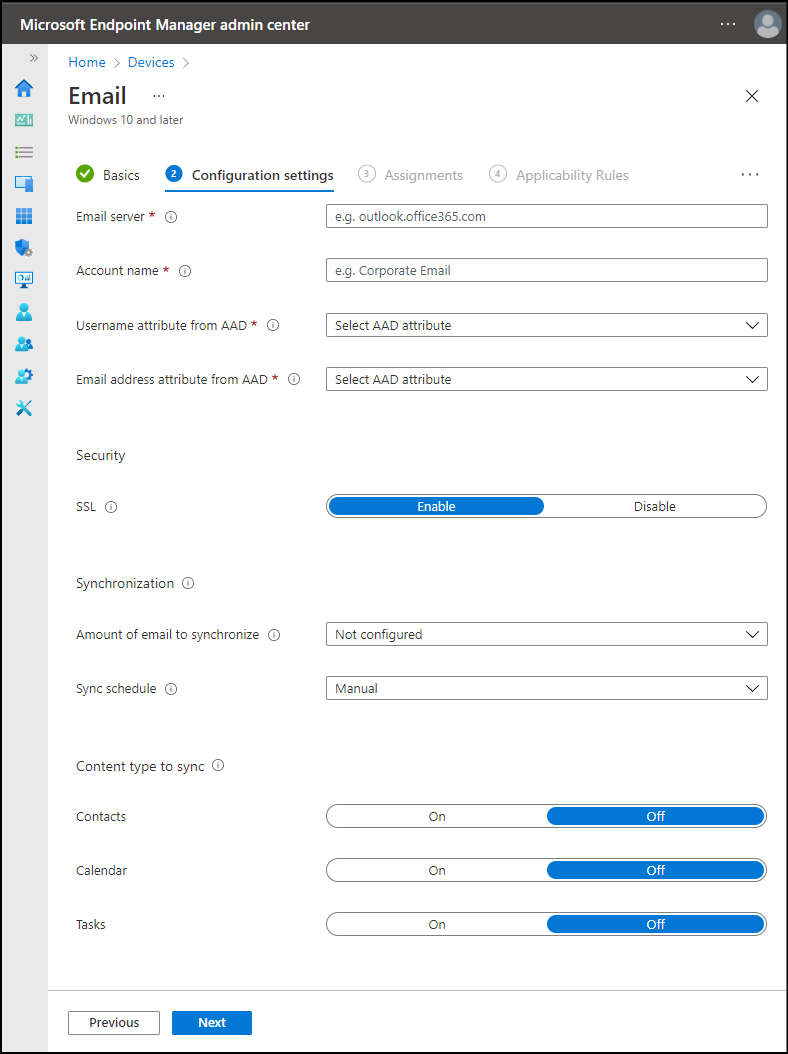
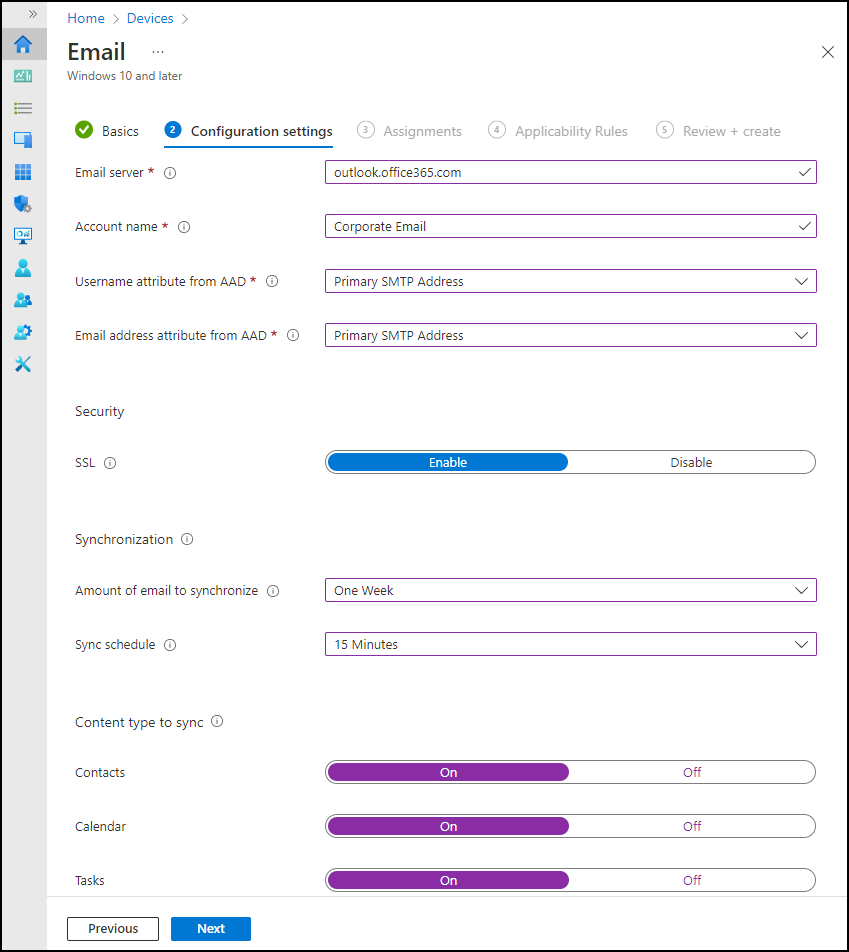
erikre-learnm365-13124507a 1.9

diff --git a/learn-m365-pr/m365/create-device-configuration-profiles/includes/8-create-vpn-profile.md b/learn-m365-pr/m365/create-device-configuration-profiles/includes/8-create-vpn-profile.md
@@ -1,56 +1,62 @@
-Virtual private networks (VPNs) give users secure remote access to your organization network. Devices use a VPN connection profile to start a connection with the VPN server. VPN profiles in Microsoft Intune assign VPN settings to users and devices in your organization. Use these settings so users can easily and securely connect to your organizational network.
+Virtual private networks (VPNs) give users secure remote access to your organization's network. This type of security helps protect your organization's privacy by ensuring only authorized users are allowed access. Devices use a VPN connection profile (device configuration profile) to start a connection with the VPN server. VPN connection profiles in Microsoft Intune assign VPN settings to users and devices in your organization. You must assign these settings so users can easily and securely connect to your organizational network.
 
-## Create a VPN device configuration profile
+You can use device configuration profiles to configure VPN settings for the following devices:
+- **Android device administrator**
+- **Android Enterprise** > **Fully Managed, Dedicated, and Corporate-Owned Work Profile**
+- **Android Enterprise** > **Personally-owned work profile**
+- **iOS/iPadOS**
+- **macOS**
+- **Windows 10 and later**
+- **Windows 8.1 and later**
+
+Use the following steps to create a new Android Enterprise VPN configuration profile using Microsoft Tunnel.
+
+> [!NOTE]
+> Before completing the below steps, you must first follow the [prerequisites for Microsoft Tunnel in Intune](/mem/intune/protect/microsoft-tunnel-prerequisites).
+
+## Step 1: Create a VPN device configuration profile
 
 1. Sign in to the [Microsoft Endpoint Manager admin center](https://go.microsoft.com/fwlink/?linkid=2109431).
 2. Select **Devices** > **Configuration profiles** > **Create profile**.
-3. Enter the following properties:
+   The **Create a profile** pane is displayed.
+3. Select **Android Enterprise** from the dropdown box under **Platform**.
+4. Under the **Personally-Owned Work Profile** section, select **VPN**.
+5. Click **Create**.
 
-    - **Platform**: Choose the platform of your devices. Your options:
-      - **Android device administrator**
-      - **Android Enterprise** > **Fully Managed, Dedicated, and Corporate-Owned Work Profile**
-      - **Android Enterprise** > **Personally-owned work profile**
-      - **iOS/iPadOS**
-      - **macOS**
-      - **Windows 10 and later**
-      - **Windows 8.1 and later**
-    - **Profile**: Select **VPN**. Or, select **Templates** > **VPN**.
+## Step 2: Add basic profile values
+1. Next to **Name**, add "VPN settings - Android Enterprise - Personally-Owned Work Profile".
+2. *[Optional]* Add a **Description** for your new profile.
+3. Click **Next**.
 
-4. Select **Create**.
-5. In **Basics**, enter the following properties:
+## Step 3: Add configuration settings
+1. Next to **Connection type**, select **Microsoft Tunnel**.
+   For more information, see [Microsoft Tunnel overview](/mem/intune/protect/microsoft-tunnel-overview).
+2. Under **Base VPN**, add a **Connection name**. For instance, include your organization's name as part of the connection name, such as "Contoso VPN".
+   The connection name is a descriptive name for the VPN connection and will be displayed to end-users on their device.
+3. Below **Microsoft Tunnel site**, click **Select a site** to display the **Microsoft Tunnel site** pane.
+   The VPN client will connect to the public IP address or fully qualified domain name (FQDN) of the site.
+4. Select an available site. 
+   If you don't have an available site, create one by selecting **Tenant administration** > **Microsoft Tunnel Gateway**. For more information, see [Prerequisites for the Microsoft Tunnel in Intune](/mem/intune/protect/microsoft-tunnel-prerequisites).
+5. Click **Next**.
 
-    - **Name**: Enter a descriptive name for the profile. Name your profiles so you can easily identify them later. For example, a good profile name is **VPN profile for entire company**.
-    - **Description**: Enter a description for the profile. This setting is optional, but recommended.
+## Step 4: Assign profile to group
+For this device configuration profile, you can skip assigning this profile to any groups, users, or devices until you have created users and enrolled devices.
+1. Click **Next**.
 
-6. Select **Next**.
-7. In **Configuration settings**, depending on the platform you chose, the settings you can configure are different. 
+## Step 5: Set applicability Rules
+For this device configuration profile, you can skip specifying how to apply this profile within an assigned group.
+1. Click **Next**.
 
-8. Select **Next**.
-9. In **Scope tags** (optional), assign a tag to filter the profile to specific IT groups, such as `US-NC IT Team` or `JohnGlenn_ITDepartment`. For more information about scope tags, see [Use RBAC and scope tags for distributed IT](/mem/intune/configuration/scope-tags).
+## Step 6: Review + create
+1. Review the values and settings for this configuration profile.
+2. Click **Create**.
 
-    Select **Next**.
+You have now created a new device configuration profile named "VPN settings - Android Enterprise - Personally-Owned Work Profile". You can see the new configuration profile in the list by selecting **Devices** > **Configuration profiles**. For more information about Android Enterprise device configuration settings in Intune, see [Android Enterprise device settings to configure VPN in Intune](/mem/intune/configuration/vpn-settings-android-enterprise).
 
-10. In **Assignments**, select the user or groups that will receive your profile. For more information on assigning profiles, see [Assign user and device profiles](/mem/intune/configuration/device-profile-assign).
-
-    Select **Next**.
-
-11. In **Review + create**, review your settings. When you select **Create**, your changes are saved, and the profile is assigned. The policy is also shown in the profiles list.
-
-## Secure your VPN profiles
-
-VPN profiles can use many different connection types and protocols from different manufacturers. These connections are typically secured through the following methods.
-
-### Certificates
+## VPN certificates
 
 When you create the VPN profile, you choose a SCEP or PKCS certificate profile that you previously created in Intune. This profile is known as the identity certificate. It's used to authenticate against a trusted certificate profile (or *root certificate*) that you create to allow the user's device to connect. The trusted certificate is assigned to the computer that authenticates the VPN connection, typically, the VPN server.
 
 If you use certificate-based authentication for your VPN profile, then deploy the VPN profile, certificate profile, and trusted root profile to the same groups. This assignment makes sure each device recognizes the legitimacy of your certificate authority.
 
 For more information about how to create and use certificate profiles in Intune, see [How to configure certificates with Microsoft Intune](/mem/intune/protect/certificates-configure).
-
-> [!NOTE]
-> Certificates added using the **PKCS imported certificate** profile aren't supported for VPN authentication. Certificates added using the **PKCS certificates** profile are supported for VPN authentication.
-
-### User name and password
-
-The user authenticates to the VPN server by providing a user name and password, or [derived credentials](/mem/intune/protect/derived-credentials).

diff --git a/learn-m365-pr/m365/create-device-configuration-profiles/includes/7-add-email-settings.md b/learn-m365-pr/m365/create-device-configuration-profiles/includes/7-add-email-settings.md
@@ -19,55 +19,40 @@ Use the following steps to create a new Windows 11 email configuration profile.
 5. Select **Email** within the **Template name** list.
 6. Click **Create**.
 
-### Add basic profile values
+## Step 2: Add basic profile values
 1. Next to **Name**, add "Windows 11 email settings".
-1. *[Optional]* Add a **Description** for your new profile.
-1. Click **Next**.
+2. *[Optional]* Add a **Description** for your new profile.
+3. Click **Next**.
 
-## Step 2: Add configuration settings
+## Step 3: Add configuration settings
 1. Add the following email account settings:
-   - **Email server**: Enter the host name of your Exchange server. For example, enter `outlook.office365.com`.
+   - **Email server**: Enter the Exchange location (URL) of your email Exchange server. For example, enter `outlook.office365.com`.
    - **Account name**: Enter the display name for the email account. This name is shown to users on their devices.
-   - **Username attribute from AAD**: This name is the attribute Intune gets from Azure Active Directory (AAD). Intune dynamically generates the username that's used by this profile. Your options:
-   - **User Principal Name**: Gets the name, such as `user1` or `user1@contoso.com`.
-   - **Primary SMTP address**: Gets the name in email address format, such as `user1@contoso.com`.
-   - **sAM Account Name**: Requires the domain, such as `domain\user1`. Also enter:  
-      - **User domain name source**: Select **AAD** (Azure Active Directory) or **Custom**.
-
-         When getting the attributes from **AAD**, also enter:
-         - **User domain name attribute from AAD**: Choose to get the **Full domain name** or the **NetBIOS name** attribute of the user.
-
-         When using **Custom** attributes, also enter:
-         - **Custom domain name to use**: Enter a value that Intune uses for the domain name, such as `contoso.com` or `contoso`.
-
-   - **Email address attribute from AAD**: Intune gets this attribute from Azure Active Directory (AAD). Choose how the email address for the user is generated. Make sure your users have email addresses that match the attribute you select. Your options:
-   - **User principal name**: Uses the full principal name as the email address, such as `user1@contoso.com` or `user1`.
-   - **Primary SMTP address**: Uses the primary SMTP address to sign in to Exchange, such as `user1@contoso.com`.
-
+2. For **Username attribute from AAD**, select **Primary SMTP address**. 
+   The **Username attribute from AAD** is an attribute Intune gets from Azure Active Directory (AAD). Intune dynamically generates the username that's used by this profile. The **Primary SMTP address** is the name in email address format, such as `user1@contoso.com`.
+3. For **Email address attribute from AAD**, select **Primary SMTP address**. Intune gets the email address attribute from Azure Active Directory (AAD). Uses the primary SMTP address to sign in to Exchange, such as `user1@contoso.com`. Make sure your users have email addresses that match the attribute you select. Your options:
 
     :::image type="content" source="../media/create-device-configuration-profiles-02.png" alt-text="Device configuration profile email settings":::
 
-2. Select **Enable** next to *SSL** to use Secure Sockets Layer (SSL) communication when sending emails, receiving emails, and communicating with the Exchange server. **Disable** doesn't require SSL.
-3. Select the following email synchronizastion settings:
-   - **Amount of email to synchronize**: Select the number of days of email that you want to synchronize. When set to **Not configured** (default), Intune doesn't change or update this setting. Select **Unlimited** to synchronize all available email.
-   - **Sync schedule**: Select the schedule for devices to synchronize data from the Exchange server. You can also select **As Messages arrive**, which synchronizes data as soon as it arrives. Or, select **Manual** so the device user starts the synchronization.
+4. Select **Enable** next to **SSL** to use Secure Sockets Layer (SSL) communication to securely send emails, receive emails, and communicate with the Exchange server.
+5. In the synchronization section, select **One Week** next to **Amount of email to synchronize**. 
+   This email synchronization setting controls how much email to store on the device and how often to connect to the server.
+6. Select **15 Minutes** next to  **Sync schedule**. 
+   This setting allows you to select the schedule for devices to synchronize data from the Exchange server. You can also select **As Messages arrive**, which synchronizes data as soon as it arrives. Or, select **Manual** so the device user starts the synchronization.
+7. In the **Content type to sync** section, select **On** next to **Contacts**, **Calendar**, and **Tasks**. 
+   In addition to email, you can use these settings to configure other items you want to synchronize like contacts, calendar, and tasks. Email is still synchronized, regardless of these settings.
+8. Click **Next**.
 
-   When set to **Not configured** (default), Intune doesn't change or update this setting.
-
-
-4. Select the content types that you want to synchronize to devices. Your options:
-  - **Contacts**: **On** syncs the contacts. **Off** doesn't automatically sync the contacts. Users manually sync.
-  - **Calendar**: **On** syncs the calendar. **Off** doesn't automatically sync the contacts. Users manually sync.
-  - **Tasks**: **On** syncs the tasks. **Off** doesn't automatically sync the tasks. Users manually sync.
-
-5. Click **Next**.
-
-## Step 3: Assignments
+## Step 4: Assign profile to group
 For this device configuration profile, you can skip assigning this profile to any groups, users, or devices until you have created users and enrolled devices.
+1. Click **Next**.
 
-## Step 3: Applicability Rules
-For this device configuration profile, you can skip assigning this profile to any groups, users, or devices until you have created users and enrolled devices.
+## Step 5: Set applicability Rules
+For this device configuration profile, you can skip specifying how to apply this profile within an assigned group.
+1. Click **Next**.
 
-## Step 4: Review + create
+## Step 6: Review + create
 1. Review the values and settings for this configuration profile.
 2. Click **Create**.
+
+You have now created a new device configuration profile named "Windows 11 email settings". You can see the new configuration profile in the list by selecting **Devices** > **Configuration profiles**. For more information about email configuration settings in Intune, see [Email profile settings for devices running Windows 10/11 in Microsoft Intune](/mem/intune/configuration/email-settings-windows-10).

diff --git a/learn-m365-pr/m365/create-device-configuration-profiles/includes/10-assign-configuration-profile.md b/learn-m365-pr/m365/create-device-configuration-profiles/includes/10-assign-configuration-profile.md
@@ -1,4 +1,7 @@
-You create a profile, and it includes all the settings you entered. The next step is to deploy or "assign" the profile to your user or device groups. When it's assigned, the users and devices receive your profile, and the settings you entered are applied.
+After you have created a device configuration profile and enrolled your organization's devices into Intune, you can assign the profile to your user or device groups. When the device configuration profile is assigned, the users and devices receive the profile, and the settings you entered are applied.
+
+> [!NOTE]
+> This modules explains how to create device configuration profiles before enrolling devices into Microsoft Intune.
 
 ## Assign a device profile
 
@@ -11,57 +14,4 @@ You create a profile, and it includes all the settings you entered. The next ste
 5. Select **Review + Save**. This step doesn't assign your profile.
 6. Select **Save**. When you save, your profile is assigned. Your groups will receive your profile settings when the devices check in with the Intune service.
 
-## Use scope tags or applicability rules
-
-When you create or update a profile, you can also add scope tags and applicability rules to the profile.
-
-**Scope tags** are a great way to filter profiles to specific groups, such as `US-NC IT Team` or `JohnGlenn_ITDepartment`. [Use RBAC and scope tags for distributed IT](/mem/intune/fundamentals/scope-tags) has more information.
-
-On Windows 10/11 devices, you can add **applicability rules** so the profile only applies to a specific OS version or a specific Windows edition. [Applicability rules](/mem/intune/configuration/device-profile-create#applicability-rules) has more information.
-
-## User groups vs. device groups
-
-Many users ask when to use user groups and when to use device groups. The answer depends on your goal. Here's some guidance to get you started.
-
-### Device groups
-
-If you want to apply settings on a device, regardless of who's signed in, then assign your profiles to a devices group. Settings applied to device groups always go with the device, not the user.
-
-For example:
-
-- Device groups are useful for managing devices that don't have a dedicated user. For example, you have devices that print tickets, scan inventory, are shared by shift workers, are assigned to a specific warehouse, and so on. Put these devices in a devices group, and assign your profiles to this devices group.
-
-- You create a [Device Firmware Configuration Interface (DFCI) Intune profile/mem/intune/configuration/device-firmware-configuration-interface-windows) that updates settings in the BIOS. For example, you configure this profile to disable the device camera, or lock down the boot options to prevent users from booting up another OS. This profile is a good scenario to assign to a devices group.
-
-- On some specific Windows devices, you always want to control some Microsoft Edge settings, regardless of who's using the device. For example, you want to block all downloads, limit all cookies to the current browsing session, and delete the browsing history. For this scenario, put these specific Windows devices in a devices group. Then, create an [Administrative Template in Intune](/mem/intune/configuration/administrative-templates-windows), add these device settings, and then assign this profile to the devices group.
-
-To summarize, use device groups when you don't care who's signed in on the device, or if anyone signs in. You want your settings to always be on the device.
-
-### User groups
-
-Profile settings applied to user groups always go with the user, and go with the user when signed in to their many devices. It's normal for users to have many devices, such as a Surface Pro for work, and a personal iOS/iPadOS device. And, it's normal for a person to access email and other organization resources from these devices.
-
-If a user has multiple devices on the same platform, then you can use [filters](/mem/intune/fundamentals/filters) on the group assignment. For example, a user has a personal iOS/iPadOS device, and an organization-owned iOS/iPadOS. When you assign a policy for that user, you can use [filters](/mem/intune/fundamentals/filters) to target only the organization-owned device.
-
-Follow this general rule: If a feature belongs to a user, such as email or user certificates, then assign to user groups.
-
-For example:
-
-- You want to put a Help Desk icon for all users on all their devices. In this scenario, put these users in a users group, and assign your Help Desk icon profile to this users group.
-- A user receives a new organization-owned device. The user signs in to the device with their domain account. The device is automatically registered in Azure AD, and automatically managed by Intune. This profile is a good scenario to assign to a users group.
-- Whenever a user signs in to a device, you want to control features in apps, such as OneDrive or Office. In this scenario, assign your OneDrive or Office profile settings to a users group.
-
-  For example, you want to block untrusted ActiveX controls in your Office apps. You can create an [Administrative Template in Intune](/mem/intune/configuration/administrative-templates-windows), configure this setting, and then assign this profile to a users group.
-
-To summarize, use user groups when you want your settings and rules to always go with the user, whatever device they use. 
-
-## Exclude groups from a profile assignment
-
-Intune device configuration profiles let you include and exclude groups from profile assignment.
-
-As a best practice:
-
-- Create and assign profiles specifically for your user groups. Use [filters](/mem/intune/fundamentals/filters) to include or exclude devices of those users.
-- Create and assign different profiles specifically for your device groups.
-
-For more information on groups, see [Add groups to organize users and devices](/mem/intune/fundamentals/groups-add).
+For more information, see [Assign user and device profiles in Microsoft Intune](/mem/intune/configuration/device-profile-assign).

diff --git a/learn-m365-pr/m365/create-device-configuration-profiles/includes/11-view-configuration-profiles.md b/learn-m365-pr/m365/create-device-configuration-profiles/includes/11-view-configuration-profiles.md
@@ -11,9 +11,9 @@ All of your profiles are shown. You also see the platform, the type of profile, 
 
 ## View device configuration profile details
 
-After you create your device profile, Intune provides graphical charts. These charts display the status of a profile, such as it being successfully assigned to devices, or if the profile shows a conflict.
+After you create your device configuration profile, Intune provides graphical charts. These charts display the status of a profile, such as it being successfully assigned to devices, or if the profile shows a conflict.
 
-1. Select an existing profile. For example, select a macOS profile.
+1. Select an existing profile. For example, select a iOS/iPadOS profile.
 2. Select the **Overview** tab. In this view, the **Profile assignment** includes the following statuses:
 
     - **Completed**: Policy is applied successfully.
@@ -22,21 +22,21 @@ After you create your device profile, Intune provides graphical charts. These ch
     - **Pending**: The device hasn't checked in with Intune to receive the policy yet.
     - **Not applicable**: The device can't receive the policy. For example, the policy updates a setting specific to iOS 11.1, but the device is using iOS 10.
 
-3. The top graphical chart shows the number of devices assigned to the device profile. For example, if the configuration device profile applies to macOS devices, the chart lists the count of the macOS devices.
+3. The top graphical chart shows the number of devices assigned to the device profile. For example, if the configuration device profile applies to iOS/iPadOS devices, the chart lists the count of the iOS/iPadOS devices.
 
     When monitoring a Windows profile, the count in the **Profile assignment** status is per device per user. So, if two users sign in to the same device, then that device is counted twice.
 
-    It can also show the number of devices for other platforms that are assigned the same device profile. For example, it shows the count of the non-macOS devices.
+    It can also show the number of devices for other platforms that are assigned the same device profile. For example, it shows the count of the non-iOS/iPadOS devices.
 
 4. Select the top graphical chart. **Device status** opens.
 
-    The devices assigned to the profile are listed, and it shows the deployment status. Also note that it only lists the devices with the specific platform (for example, macOS).
+    The devices assigned to the profile are listed, and it shows the deployment status. Also note that it only lists the devices with the specific platform (for example, iOS/iPadOS).
 
     Close the **Device status** details.
 
 5. Select the circle in the bottom graphical chart. **User status** opens.
 
-    The users assigned to the profile are listed, and it shows the deployment status. Also note that it only lists the users with the specific platform (for example, macOS).
+    The users assigned to the profile are listed, and it shows the deployment status. Also note that it only lists the users with the specific platform (for example, iOS/iPadOS).
 
     Close the **User status** details.
 
@@ -49,4 +49,4 @@ After you create your device profile, Intune provides graphical charts. These ch
     - **Per-setting status**: Filters the output by showing the individual settings within the profile, and shows if the setting is successfully applied.
 
 > [!TIP]
-> [Intune reports](/mem/intune/fundamentals/reports) is a great resource, and describes all the reporting features you can use.
+> For additional information about all Intune reporting, see [Intune reports](/mem/intune/fundamentals/reports).

diff --git a/learn-m365-pr/m365/create-device-configuration-profiles/includes/6-configure-password-restrictions.md b/learn-m365-pr/m365/create-device-configuration-profiles/includes/6-configure-password-restrictions.md
@@ -24,12 +24,12 @@ Use the following steps to create a new iOS/iPadOS device configuration profile 
 4. Select **Device restrictions** from the dropdown box under **Profile type**.
 5. Click **Create**.
 
-### Add basic profile values
+## Step 2: Add basic profile values
 1. Next to **Name**, add "Require device password".
-1. *[Optional]* Add a **Description** for your new profile.
-1. Click **Next**.
+2. *[Optional]* Add a **Description** for your new profile.
+3. Click **Next**.
 
-## Step 2: Add configuration settings
+## Step 3: Add configuration settings
 1. Click **Password** from the list to display password related settings.
 2. Select **Yes** next to **Require password**.
 3. Select **Yes** next to **Block simple passwords**.
@@ -38,12 +38,12 @@ Use the following steps to create a new iOS/iPadOS device configuration profile 
 
 4. Click **Next**.
 
-## Step 3: Assign profile to group
+## Step 4: Assign profile to group
 For this device configuration profile, you can skip assigning this profile to any groups, users, or devices until you have created users and enrolled devices.
 1. Click **Next**.
 
-## Step 4: Review + create
-1. Review the values and settings for this configuration profile.
-2. Click **Create**.
+## Step 5: Review + create
+2. Review the values and settings for this configuration profile.
+3. Click **Create**.
 
 You have now created a new device configuration profile named "Require device password". You can see the new configuration profile in the list by selecting **Devices** > **Configuration profiles**. For related information, see [iOS and iPadOS device settings to allow or restrict features using Intune](/mem/intune/configuration/device-restrictions-ios).

diff --git a/learn-m365-pr/m365/create-device-configuration-profiles/includes/13-summary.md b/learn-m365-pr/m365/create-device-configuration-profiles/includes/13-summary.md
@@ -1,4 +1,4 @@
-Before you enroll devices to be managed by Microsoft Endpoint Manager and used by members of your organization, you should create the device configuration profiles, the device compliance policies, and the conditional access policies needed by your organization. Device configuration profiles are groups of settings that enable or disable different device capabilities. These capabilities are used to configure the devices used in your organization so users and devices can access the right resources and data, safely and securely. Device configuration profiles help users become productive quickly. 
+Before you enroll devices to be managed by Microsoft Endpoint Manager and used by members of your organization, you should create the device configuration profiles, the device compliance policies, and the conditional access policies needed by your organization. Device configuration profiles are groups of settings that enable or disable different device capabilities. These capabilities are used to configure the devices used in your organization so users and devices can access the right resources and data, safely and securely. Device configuration profiles help users become productive quickly.
 
 In this module, you've learned about device configuration profiles so that you can apply these configuration profiles when you enroll your organization's devices into Microsoft Intune. The goals of this module included the following:
 
